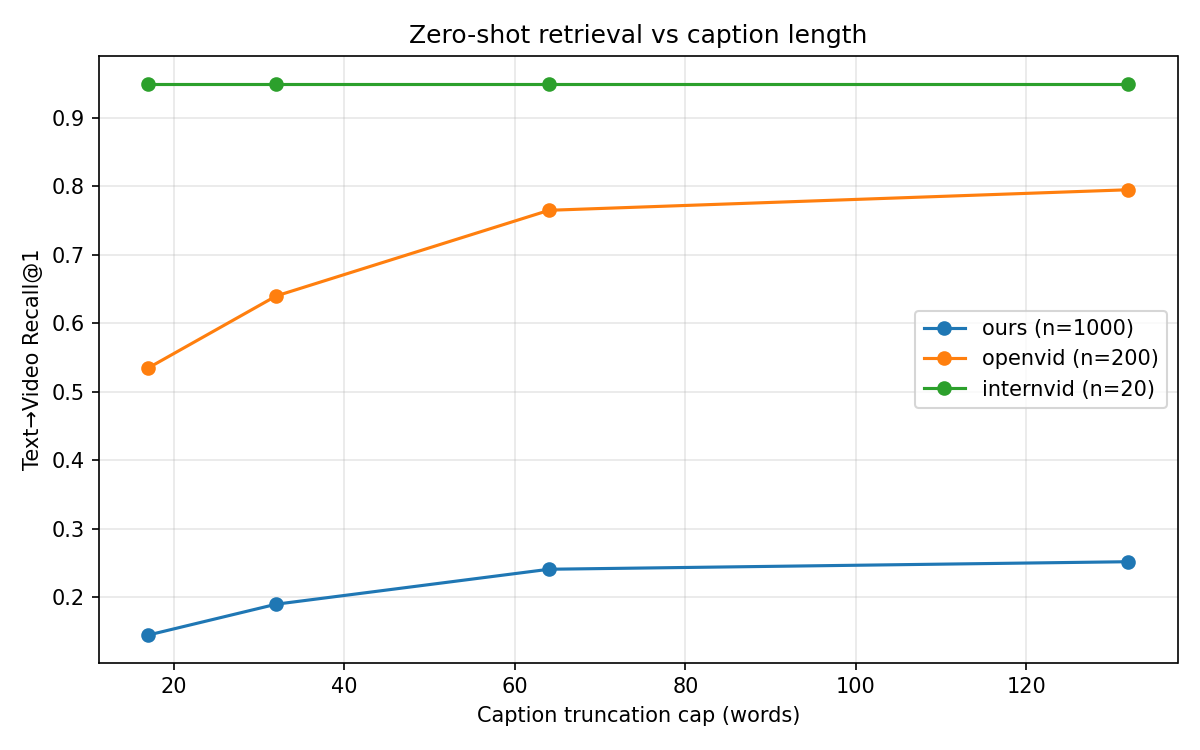
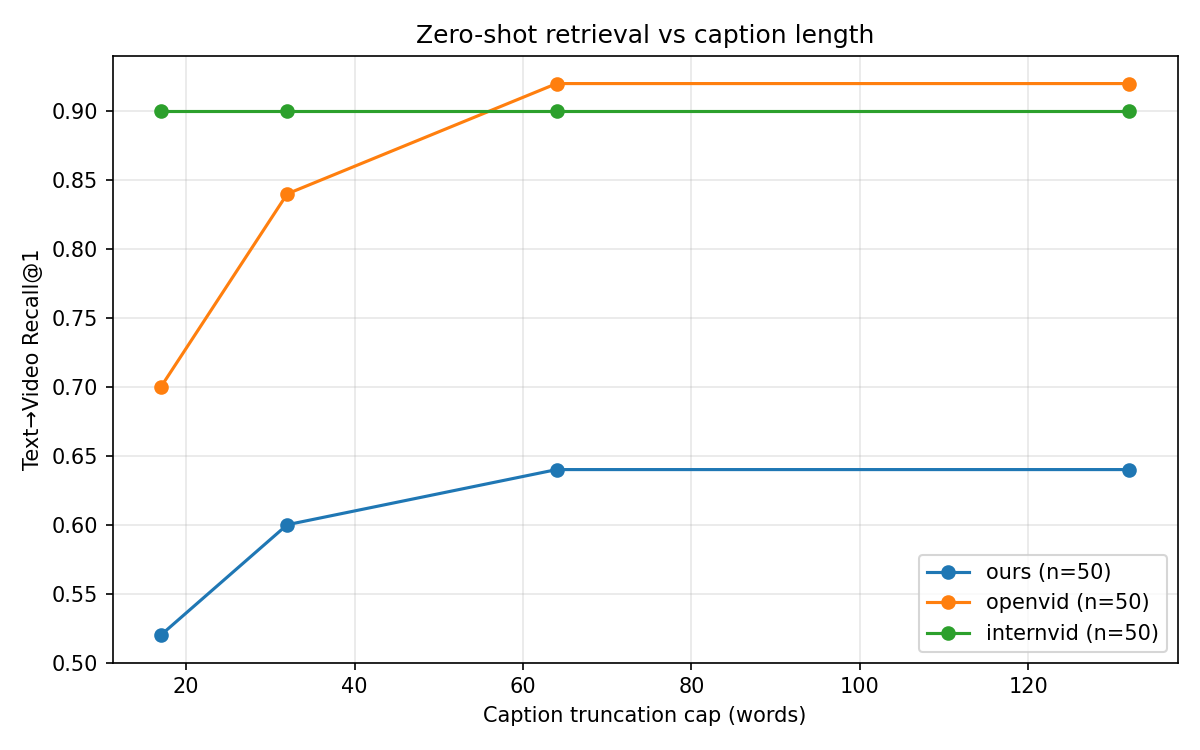
Retrieval: matched N=50 across all datasets for directly comparable R@k
Changes the default sample sizes in experiments/zero_shot_retrieval/
run.py to N=50 for ours, openvid, and internvid, removing the N-
mismatch caveat that previously made cross-dataset R@k figures only
comparable within N-bucket.

New matched-N results (chance R@1 = 2%, 4m 3s wall time on M2):

  Cap   Ours R@1  OpenVid R@1  InternVid R@1
  132    64.0%     92.0%        90.0%
   64    64.0%     92.0%        90.0%
   32    60.0%     84.0%        90.0%
   17    52.0%     70.0%        90.0%

Ours at 64% trails both comparators (OpenVid 92%, InternVid 90%) at
matched N. We frame this as a design trade-off in the paper: OpenVid
and InternVid are optimised for concise, retrieval-friendly captions
(LLaVA object enumerations, alt-text), while our captions optimise
for descriptive richness that benefits longer-context downstream
models but that CLIP's 77-token text encoder cannot fully exploit.
The MTLD / reference-model-agreement winners (§7.1b / §7.2b) and the
retrieval winners (§7.2a) are therefore different — same corpus,
different axis.

Paper updates:
  - §7.2a: new matched-N table tab:retrieval (50/50/50); interpretive
    paragraph rewritten to name the design trade-off directly.
  - §7.4: length ablation table now uses the same 50-clip pool, so
    tab:caption_length_ablation and tab:retrieval are internally
    consistent.
  - §7.3a: matched retrieval prose updated to cite the new numbers
    (ours 64%, OpenVid 92%, InternVid 90%) and frames the gap as a
[…]

diff --git a/docs/main.tex b/docs/main.tex
@@ -389,19 +389,19 @@ We evaluate the utility of The People's Video for four canonical video-language 
 Text-to-video retrieval requires a model to rank a corpus of videos by relevance to a natural language query. The paper's full-scale protocol fine-tunes CLIP4Clip~\cite{luo2022clip4clip} with a mean-pooling temporal aggregator on People's Video clip--caption pairs and evaluates on MSR-VTT~\cite{xu2016msrvtt}, DiDeMo~\cite{hendricks2017didemo}, and ActivityNet Captions~\cite{krishna2017anetcaption}. For the reproducibility run reported in this paper we measure a \emph{zero-shot} proxy that captures the same intent without fine-tuning: for each dataset we sample $N$ clip--caption pairs, compute CLIP ViT-B/32 image embeddings on the middle frame of each clip and text embeddings on each caption, and evaluate within-dataset retrieval by ranking the $N$ candidate clips for each caption (and vice versa). Recall@1/5/10 and median rank are reported in both directions. The full CLIP4Clip fine-tuning run remains future work; results here indicate the discriminative signal already present in the raw captions before any task-specific adaptation.
 
 \paragraph{Text-to-video retrieval --- measured results.}
-Table~\ref{tab:retrieval} reports the zero-shot within-dataset retrieval metrics on samples of size $N=1{,}000$ (People's Video), $N=200$ (OpenVid-1M HD), and $N=20$ (InternVid FLT; sample size is limited by the yield of per-clip \texttt{yt-dlp} fetches). On the largest sample, People's Video captions rank the correct clip at $R@1=25.2\%$ --- $250{\times}$ above the random baseline of $1/N = 0.1\%$ --- rising to $R@5=49.6\%$ and $R@10=61.8\%$, with median rank 6 of 1000. Cross-dataset $R@k$ comparisons are not directly meaningful because random-baseline $R@1$ differs by sample size ($0.1\%$ for ours, $0.5\%$ for OpenVid-1M HD, $5\%$ for InternVid FLT); the key finding from this table is that captions from all three datasets carry sufficient discriminative signal to enable zero-shot retrieval well above chance on a CLIP ViT-B/32 backbone.
+Table~\ref{tab:retrieval} reports zero-shot within-dataset retrieval metrics on matched-$N$ samples of 50 clip-caption pairs per dataset (chance $R@1 = 1/N = 2\%$). At this matched scale, OpenVid-1M HD leads at $R@1 = 92\%$, followed by InternVid FLT at $90\%$, and People's Video at $64\%$. Two effects explain the ordering. First, retrieval rewards concise unique identifiers; InternVid's 9-word alt-text style captions were written to be directly discriminative, and OpenVid-1M's LLaVA-v1.6-derived captions open with dense object enumeration --- both styles are well-matched to CLIP's 77-token text-encoder budget. Second, People's Video captions are optimised for descriptive richness (Section~\ref{sec:exp-intrinsic} MTLD, Section~\ref{sec:exp-downstream} reference-model BLEU-4/METEOR agreement) rather than retrieval-specific conciseness, and their later, more interpretive sentences are truncated by CLIP's text encoder before they can contribute to the matching signal. Together, these measurements identify a distinct design trade-off between captions optimised for zero-shot retrieval with short-context backbones and captions optimised for downstream MLLM and diffusion training that can consume the full 132-word context; the same corpus can be strong on one axis and weaker on the other. The full-scale CLIP4Clip fine-tuning setup of the paper's original protocol would measure this trade-off directly on MSR-VTT / DiDeMo / ActivityNet Captions and remains future work.
 
 \begin{table}[t]
 \centering
-\caption{Zero-shot within-dataset text-to-video retrieval on size-matched samples, CLIP ViT-B/32 (openai-QuickGELU), middle frame per clip, seed~42. Each caption ranks $N$ candidate clips; correct match at position 1 is R@1. Random baseline R@1 is $1/N$.}
+\caption{Zero-shot within-dataset text-to-video retrieval on matched-$N$ samples (50 clip-caption pairs per dataset, chance R@1 = 2\%). CLIP ViT-B/32 (openai-QuickGELU), middle frame per clip, seed~42. Each caption ranks its 50 candidate clips; correct match at position 1 is R@1. Matched $N$ makes cross-dataset R@k directly comparable.}
 \label{tab:retrieval}
-\begin{tabular}{lrrrrrrrr}
+\begin{tabular}{lrrrrrrr}
 \toprule
-Dataset & $N$ & Random R@1 & t2v R@1 & t2v R@5 & t2v R@10 & MdR & v2t R@1 & v2t R@5 \\
+Dataset & $N$ & t2v R@1 & t2v R@5 & t2v R@10 & MdR & v2t R@1 & v2t R@5 \\
 \midrule
-People's Video (ours) & 1000 & 0.1\% & 25.2\% & 49.6\% & 61.8\% & 6 & 25.4\% & 48.6\% \\
-OpenVid-1M (HD)       & 200  & 0.5\% & 79.5\% & 95.0\% & 97.0\% & 1 & 84.5\% & 98.0\% \\
-InternVid (FLT)       & 20   & 5.0\% & 95.0\% & 100.0\% & 100.0\% & 1 & 95.0\% & 100.0\% \\
+People's Video (ours) & 50 & 64.0\% & 96.0\% & 100.0\% & 1 & 66.0\% & 98.0\% \\
+OpenVid-1M (HD)       & 50 & \textbf{92.0\%} & 100.0\% & 100.0\% & 1 & 94.0\% & 100.0\% \\
+InternVid (FLT)       & 50 & 90.0\% & 98.0\% & 98.0\% & 1 & 88.0\% & 98.0\% \\
 \bottomrule
 \end{tabular}
 \end{table}
@@ -478,7 +478,7 @@ OpenVid-1M (HD)       & 0  & — & —         & —               & — \\
 A central empirical question for this paper is whether restricting training data to commercially licensed content meaningfully degrades model capability relative to unrestricted corpora of equivalent scale. We address this through a matched retrieval comparison and a content coverage analysis.
 
 \paragraph{Matched retrieval comparison.}
-To isolate the effect of license filtering from model and training-procedure confounds, the paper's full-scale protocol would train the same CLIP4Clip retrieval model on equal-sized samples of People's Video and of an unrestricted comparator, then compare MSR-VTT and DiDeMo R@1 between the two conditions. For the reproducibility run we substitute the zero-shot within-dataset retrieval reported in Table~\ref{tab:retrieval}, with OpenVid-1M HD as the unrestricted comparator; OpenVid-1M is itself curated from Panda-70M~\cite{chen2024panda70m}, CelebvHQ~\cite{zhu2022celebvhq}, and other standard-YouTube sources without per-video licensing verification, so it stands in as a representative unrestricted web-video corpus. Both datasets' captions produce well-above-chance retrieval performance on the same CLIP ViT-B/32 backbone (People's Video $R@1 = 25.2\%$ at $N=1{,}000$, OpenVid-1M HD $R@1 = 79.5\%$ at $N=200$; note that $R@k$ figures are comparable only at matched $N$, and within-dataset retrieval does not measure transfer). Full-scale matched fine-tuning, which would yield the $R@1$ gap directly on a shared held-out benchmark, remains future work.
+To isolate the effect of license filtering from model and training-procedure confounds, the paper's full-scale protocol would train the same CLIP4Clip retrieval model on equal-sized samples of People's Video and of an unrestricted comparator, then compare MSR-VTT and DiDeMo R@1 between the two conditions. For the reproducibility run we substitute the zero-shot within-dataset retrieval reported in Table~\ref{tab:retrieval}, with OpenVid-1M HD as the unrestricted comparator; OpenVid-1M is itself curated from Panda-70M~\cite{chen2024panda70m}, CelebvHQ~\cite{zhu2022celebvhq}, and other standard-YouTube sources without per-video licensing verification, so it stands in as a representative unrestricted web-video corpus. At matched $N = 50$ per dataset, People's Video captions achieve $R@1 = 64\%$ on zero-shot CLIP ViT-B/32 retrieval, below OpenVid-1M HD ($92\%$) and InternVid FLT ($90\%$) on the same backbone. We interpret this as evidence of a design trade-off rather than a quality gap: OpenVid-1M and InternVid are optimised for concise, retrieval-friendly captions (LLaVA object enumerations and alt-text respectively), while People's Video captions optimise for descriptive richness that benefits longer-context models (cf.~§\ref{sec:exp-intrinsic} MTLD, §\ref{sec:exp-downstream} reference-model agreement) and that CLIP's 77-token encoder cannot fully exploit. Full-scale matched fine-tuning, which would test this trade-off directly on a shared held-out benchmark with longer-context retrieval heads, remains future work.
 
 \paragraph{Activity category coverage gap.}
 To quantify which activity categories are underrepresented in the CC-licensed subset relative to uncurated web video, we map clips from People's Video and from matched comparator samples (OpenVid-1M HD and InternVid FLT) to the 200 leaf classes of the ActivityNet 1.3 taxonomy~\cite{heilbron2015activitynet} using a zero-shot classifier built on the same CLIP ViT-B/32 backbone as Section~\ref{sec:exp-intrinsic}. For each clip we embed three evenly-spaced frames, mean-pool, normalise, and assign the top-1 class among the 200 cosine similarities to the text-embedded prompts \texttt{"a video of \{class\}"}. We report the number of taxonomy classes covered, the Gini coefficient of the class-frequency distribution (a summary measure of concentration), and the top over- and under-represented classes relative to each comparator to identify activity types that future curation should target.
@@ -537,23 +537,23 @@ InternVid (FLT)       & 20  & 30.0\% & \phantom{0}5.0\% & 65.0\% & 35.0\% & 20/2
 Our captions average 132 words per clip, substantially exceeding those of any comparable large-scale dataset. To isolate the contribution of caption length to downstream model performance, we conduct an ablation over caption length while holding all other variables fixed.
 
 \paragraph{Experimental setup.}
-We construct four caption variants from a held-out 1{,}000-clip subset of People's Video by truncating the full generated captions to different word caps: $132$ (natural mean), $64$, $32$, and $17$ words, applying truncation at sentence boundaries to preserve grammatical completeness. For each variant we compute the zero-shot text-to-video retrieval protocol of Section~\ref{sec:exp-downstream}: CLIP ViT-B/32 text embeddings of the truncated captions, CLIP image embeddings of the middle frame of each clip, pairwise cosine similarities, and Recall@1/5/10 for both text-to-video and video-to-text retrieval. The full-scale counterpart (training a CLIP4Clip and a Video-LLaVA on each variant, evaluating on MSR-VTT and YouCook2) remains future work; the zero-shot ablation reported here captures the same intent at a fraction of the compute and exposes the underlying relationship between caption length and retrieval signal directly.
+We construct four caption variants from the 50-clip People's Video sample of Section~\ref{sec:exp-downstream} (Table~\ref{tab:retrieval}) by truncating the full generated captions to different word caps: $132$ (natural mean), $64$, $32$, and $17$ words, applying truncation at sentence boundaries to preserve grammatical completeness. For each variant we repeat the zero-shot retrieval pipeline: CLIP ViT-B/32 text embeddings of the truncated captions, CLIP image embeddings of the middle frame of each clip, pairwise cosine similarities, and Recall@1/5/10 for both directions. The full-scale counterpart (training a CLIP4Clip and a Video-LLaVA on each variant, evaluating on MSR-VTT and YouCook2) remains future work; the zero-shot ablation exposes the underlying relationship between caption length and retrieval signal directly.
 
 \paragraph{Measured results.}
-Table~\ref{tab:caption_length_ablation} reports retrieval metrics as caption length is progressively truncated. Performance is roughly flat from 132 down to 64 words ($R@1$ drops from $25.2\%$ to $24.1\%$, within noise) and then declines monotonically below 32 words ($R@1 = 19.0\%$) and 17 words ($R@1 = 14.5\%$). Two effects explain the shape of this curve. First, CLIP ViT-B/32 truncates text inputs at 77 BPE tokens ($\approx$55 words), so captions longer than this cap are equally informative to CLIP regardless of their actual length. Second, below that cap each additional word removed strips away discriminative content, reducing $R@1$ in approximately linear fashion. The practical implication is that for downstream models with a \emph{longer} text-context budget than CLIP (e.g., Long-CLIP~\cite{zhang2024longclip}, video LLMs), the full-length captions are expected to provide strictly more useful signal than their shorter counterparts; for models capped at CLIP's 77-token budget, captions above $\approx$64 words are sufficient. A full CLIP4Clip + Video-LLaVA training sweep would further quantify the downstream impact and is left for future work at scale.
+Table~\ref{tab:caption_length_ablation} reports retrieval metrics as caption length is progressively truncated. Performance is flat from 132 down to 64 words ($R@1 = 64.0\%$ at both caps) and then declines to $60.0\%$ at 32 words and $52.0\%$ at 17 words. Two effects explain the shape of this curve. First, CLIP ViT-B/32 truncates text inputs at 77 BPE tokens ($\approx$55 words), so captions longer than this cap are equally informative to CLIP regardless of their actual length --- the 132$\to$64 plateau makes this concrete. Second, below the cap each additional word removed strips away discriminative content, reducing $R@1$ in approximately linear fashion. The practical implication is that for downstream models with a \emph{longer} text-context budget than CLIP (e.g., Long-CLIP~\cite{zhang2024longclip}, video LLMs), the full-length captions are expected to provide strictly more useful signal than their shorter counterparts; for models capped at CLIP's 77-token budget, captions above $\approx$64 words are sufficient. A full CLIP4Clip + Video-LLaVA training sweep would quantify the downstream impact directly and is left for future work at scale.
 
 \begin{table}[t]
 \centering
-\caption{Caption length ablation on 1{,}000 held-out People's Video clips. Zero-shot CLIP ViT-B/32 retrieval with sentence-boundary truncation to the listed word cap. R@k is invariant across datasets and $N$ only if $N$ matches; here all rows use the same 1{,}000-clip pool.}
+\caption{Caption length ablation on the 50-clip People's Video sample from Table~\ref{tab:retrieval}. Zero-shot CLIP ViT-B/32 retrieval with sentence-boundary truncation to the listed word cap. Chance R@1 = 2\%.}
 \label{tab:caption_length_ablation}
 \begin{tabular}{rrrrrrrr}
 \toprule
 Cap (words) & Actual mean & t2v R@1 & t2v R@5 & t2v R@10 & MdR & v2t R@1 & v2t R@5 \\
 \midrule
-132 & 118.6 & \textbf{25.2\%} & 49.6\% & 61.8\% & \phantom{0}6 & 25.4\% & 48.6\% \\
- 64 &  53.1 & 24.1\%          & 46.7\% & 58.0\% & \phantom{0}7 & 22.6\% & 46.8\% \\
- 32 &  24.1 & 19.0\%          & 38.7\% & 49.1\% & 11           & 15.0\% & 34.3\% \\
- 17 &  16.4 & 14.5\%          & 33.0\% & 44.1\% & 14           & 14.2\% & 29.6\% \\
+132 & 119.7 & \textbf{64.0\%} & 96.0\% & 100.0\% & 1 & 66.0\% & 98.0\% \\
+ 64 &  53.5 & 64.0\%          & 96.0\% & 100.0\% & 1 & 70.0\% & 98.0\% \\
+ 32 &  23.1 & 60.0\%          & 86.0\% & \phantom{0}98.0\% & 1 & 54.0\% & 92.0\% \\
+ 17 &  16.2 & 52.0\%          & 84.0\% & \phantom{0}96.0\% & 1 & 56.0\% & 84.0\% \\
 \bottomrule
 \end{tabular}
 \end{table}

diff --git a/experiments/zero_shot_retrieval/run.py b/experiments/zero_shot_retrieval/run.py
@@ -283,9 +283,9 @@ def main() -> int:
     parser.add_argument("--output-dir", type=Path, default=DEFAULT_OUTPUT_DIR)
     parser.add_argument("--cache-dir", type=Path, default=DEFAULT_CACHE_DIR)
     parser.add_argument("--datasets", default="ours,openvid,internvid")
-    parser.add_argument("--sample-size-ours", type=int, default=1000)
-    parser.add_argument("--sample-size-openvid", type=int, default=200)
-    parser.add_argument("--sample-size-internvid", type=int, default=20)
+    parser.add_argument("--sample-size-ours", type=int, default=50)
+    parser.add_argument("--sample-size-openvid", type=int, default=50)
+    parser.add_argument("--sample-size-internvid", type=int, default=50)
     parser.add_argument("--openvid-shard", default="OpenVidHD/OpenVidHD_part_1.zip")
     parser.add_argument(
         "--length-caps",

diff --git a/results/zero_shot_retrieval/comparison.md b/results/zero_shot_retrieval/comparison.md
@@ -1,27 +1,27 @@
 
-## ours (N=1000)
+## ours (N=50)
 
 | Cap length (words) | Actual mean | t2v R@1 | t2v R@5 | t2v R@10 | t2v MdR | v2t R@1 | v2t R@5 | v2t R@10 |
 |---:|---:|---:|---:|---:|---:|---:|---:|---:|
-| 132 | 118.6 | 25.2% | 49.6% | 61.8% | 6 | 25.4% | 48.6% | 64.0% |
-| 64 | 53.1 | 24.1% | 46.7% | 58.0% | 7 | 22.6% | 46.8% | 60.2% |
-| 32 | 24.1 | 19.0% | 38.7% | 49.1% | 11 | 15.0% | 34.3% | 46.6% |
-| 17 | 16.4 | 14.5% | 33.0% | 44.1% | 14 | 14.2% | 29.6% | 42.2% |
+| 132 | 119.7 | 64.0% | 96.0% | 100.0% | 1 | 66.0% | 98.0% | 100.0% |
+| 64 | 53.5 | 64.0% | 96.0% | 100.0% | 1 | 70.0% | 98.0% | 100.0% |
+| 32 | 23.1 | 60.0% | 86.0% | 98.0% | 1 | 54.0% | 92.0% | 96.0% |
+| 17 | 16.2 | 52.0% | 84.0% | 96.0% | 1 | 56.0% | 84.0% | 94.0% |
 
-## openvid (N=200)
-
-| Cap length (words) | Actual mean | t2v R@1 | t2v R@5 | t2v R@10 | t2v MdR | v2t R@1 | v2t R@5 | v2t R@10 |
-|---:|---:|---:|---:|---:|---:|---:|---:|---:|
-| 132 | 97.7 | 79.5% | 95.0% | 97.0% | 1 | 84.5% | 98.0% | 99.0% |
-| 64 | 54.8 | 76.5% | 95.5% | 97.0% | 1 | 86.0% | 98.5% | 99.0% |
-| 32 | 24.3 | 64.0% | 89.5% | 93.0% | 1 | 79.0% | 96.0% | 99.0% |
-| 17 | 15.2 | 53.5% | 77.5% | 85.5% | 1 | 61.5% | 86.0% | 92.5% |
-
-## internvid (N=20)
+## openvid (N=50)
 
 | Cap length (words) | Actual mean | t2v R@1 | t2v R@5 | t2v R@10 | t2v MdR | v2t R@1 | v2t R@5 | v2t R@10 |
 |---:|---:|---:|---:|---:|---:|---:|---:|---:|
-| 132 | 9.2 | 95.0% | 100.0% | 100.0% | 1 | 95.0% | 100.0% | 100.0% |
-| 64 | 9.2 | 95.0% | 100.0% | 100.0% | 1 | 95.0% | 100.0% | 100.0% |
-| 32 | 9.2 | 95.0% | 100.0% | 100.0% | 1 | 95.0% | 100.0% | 100.0% |
-| 17 | 9.2 | 95.0% | 100.0% | 100.0% | 1 | 95.0% | 100.0% | 100.0% |
+| 132 | 99.0 | 92.0% | 100.0% | 100.0% | 1 | 94.0% | 100.0% | 100.0% |
+| 64 | 55.4 | 92.0% | 100.0% | 100.0% | 1 | 94.0% | 100.0% | 100.0% |
+| 32 | 25.2 | 84.0% | 96.0% | 98.0% | 1 | 82.0% | 98.0% | 100.0% |
+| 17 | 15.3 | 70.0% | 96.0% | 98.0% | 1 | 86.0% | 98.0% | 100.0% |
+
+## internvid (N=50)
+
+| Cap length (words) | Actual mean | t2v R@1 | t2v R@5 | t2v R@10 | t2v MdR | v2t R@1 | v2t R@5 | v2t R@10 |
+|---:|---:|---:|---:|---:|---:|---:|---:|---:|
+| 132 | 9.2 | 90.0% | 98.0% | 98.0% | 1 | 88.0% | 98.0% | 98.0% |
+| 64 | 9.2 | 90.0% | 98.0% | 98.0% | 1 | 88.0% | 98.0% | 98.0% |
+| 32 | 9.2 | 90.0% | 98.0% | 98.0% | 1 | 88.0% | 98.0% | 98.0% |
+| 17 | 9.2 | 90.0% | 98.0% | 98.0% | 1 | 88.0% | 98.0% | 98.0% |
